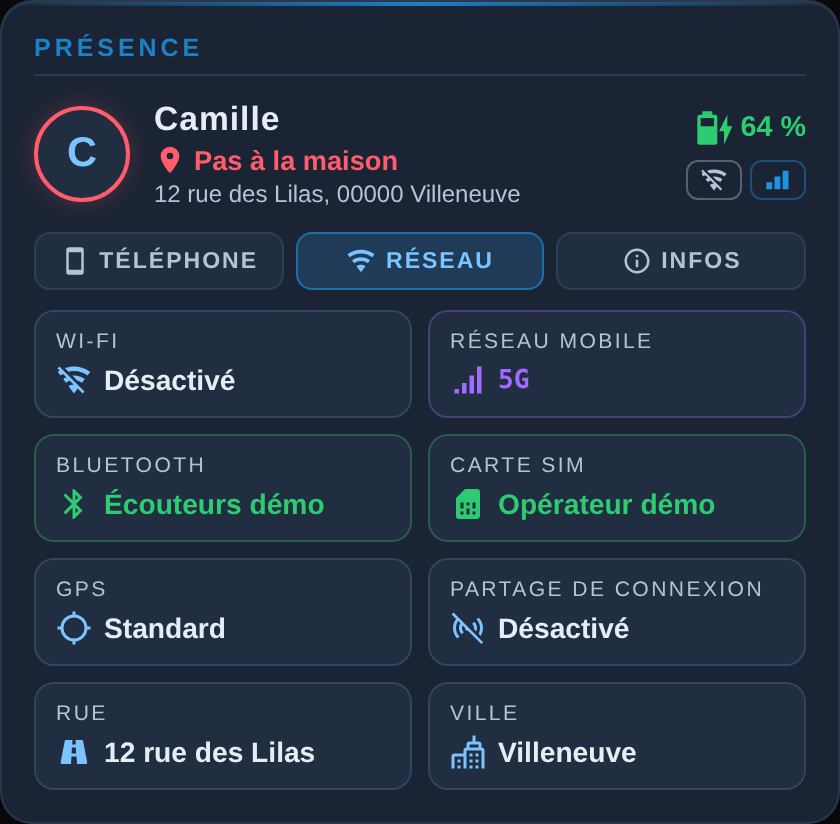
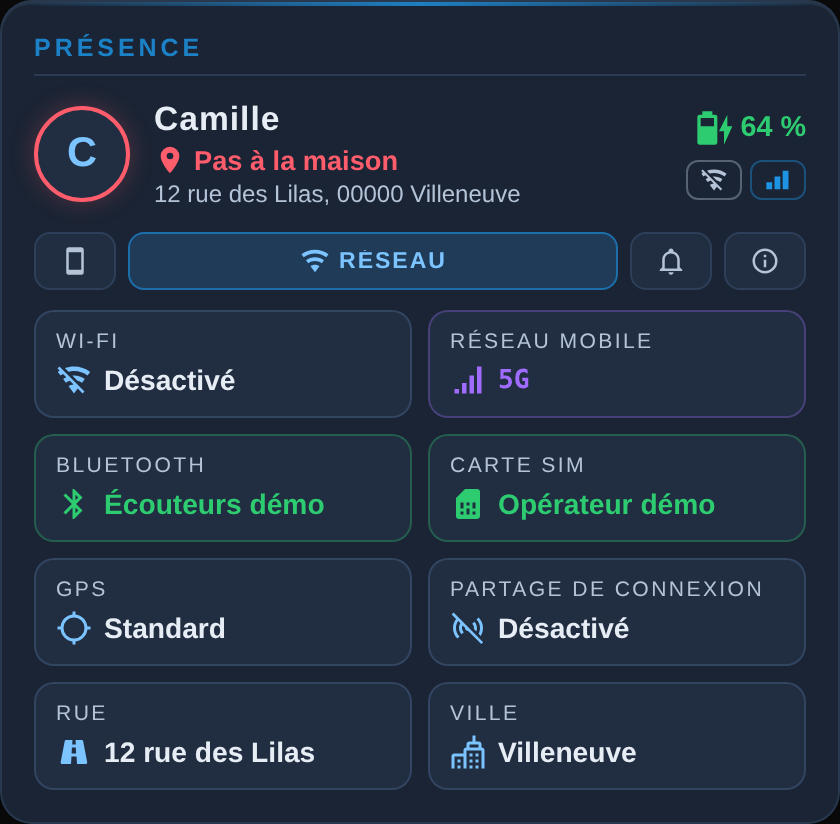
feat(web): notifications, dernier SMS, distance Proximité, rue et ville (1.0.0-beta.2)
Onglet Notifications et tuile Dernier SMS lus dans les attributs du capteur
de notifications actives ; capteur de distance de l'intégration Proximité
détecté ; rue et ville découpées dans l'adresse géocodée ; onglets compacts
sur une carte étroite.

Claude-Session: https://claude.ai/code/session_01CSixJnFf4qBMac7uTfNvnW

diff --git a/tracker-card.js b/tracker-card.js
@@ -12,7 +12,7 @@
  * Toutes les entités du téléphone peuvent être indiquées à la main sous « phone: ».
  */
 
-const CARD_VERSION = "1.0.0-beta.1";
+const CARD_VERSION = "1.0.0-beta.2";
 
 const define = (name, cls) => { if (!customElements.get(name)) customElements.define(name, cls); };
 const esc = (v) => String(v ?? "").replace(/[&<>"']/g, (c) => ({ "&": "&amp;", "<": "&lt;", ">": "&gt;", '"': "&quot;", "'": "&#39;" }[c]));
@@ -56,7 +56,7 @@ const CSS = THEME_CSS + `
 :host{display:block;font-family:var(--g-font);font-size:16px;}
 *{box-sizing:border-box;}
 ha-card{
-  display:block;position:relative;overflow:hidden;background:var(--g-bg);color:var(--g-text);
+  display:block;position:relative;container-type:inline-size;overflow:hidden;background:var(--g-bg);color:var(--g-text);
   border-radius:16px;border:1px solid color-mix(in srgb,var(--g-edge) 22%,transparent);
   box-shadow:inset 0 1px 0 rgba(255,255,255,.06),0 8px 28px rgba(0,0,0,.45);padding:16px;
 }
@@ -89,7 +89,9 @@ ha-card::before{content:'';position:absolute;top:0;left:0;right:0;height:2px;
 .tab{flex:1;min-width:90px;display:flex;align-items:center;justify-content:center;gap:5px;padding:6px 8px;border-radius:8px;cursor:pointer;user-select:none;
   font-size:.72rem;font-weight:700;letter-spacing:1px;text-transform:uppercase;color:var(--g-muted);
   background:var(--g-panel);border:1px solid color-mix(in srgb,var(--g-edge) 22%,transparent);}
-.tab ha-icon{--mdc-icon-size:15px;}
+.tab ha-icon{--mdc-icon-size:15px;flex:none;}
+.tab span{white-space:nowrap;overflow:hidden;text-overflow:ellipsis;}
+@container (max-width:480px){.tabs.n4 .tab{min-width:0;flex:0 0 auto;padding:6px 12px}.tabs.n4 .tab.on{flex:1}.tabs.n4 .tab:not(.on) span{display:none}}
 .tab.on{color:var(--g-acc2);border-color:color-mix(in srgb,var(--g-acc) 60%,transparent);background:color-mix(in srgb,var(--g-acc) 14%,var(--g-panel));}
 .panel{display:none;}
 .panel.on{display:block;}
@@ -103,7 +105,7 @@ ha-card::before{content:'';position:absolute;top:0;left:0;right:0;height:2px;
 .grid{display:grid;grid-template-columns:repeat(auto-fill,minmax(130px,1fr));gap:8px;}
 .tile{padding:9px 10px;border-radius:10px;background:var(--g-panel);min-width:0;
   border:1px solid color-mix(in srgb,var(--c,var(--g-edge)) 30%,transparent);}
-.tile[data-entity]{cursor:pointer;}
+.tile[data-entity],.tile[data-goto]{cursor:pointer;}
 .tile[data-entity]:hover{border-color:color-mix(in srgb,var(--c,var(--g-acc)) 70%,transparent);}
 .tile.wide{grid-column:1/-1;}
 .lbl{font-size:.66rem;letter-spacing:1.2px;text-transform:uppercase;color:var(--g-muted);margin-bottom:4px;}
@@ -125,6 +127,16 @@ ha-card::before{content:'';position:absolute;top:0;left:0;right:0;height:2px;
   background:color-mix(in srgb,var(--err) 10%,transparent);border:1px solid color-mix(in srgb,var(--err) 40%,transparent);font-family:inherit;}
 .find:hover,.find.busy{background:color-mix(in srgb,var(--err) 22%,transparent);}
 .find ha-icon{--mdc-icon-size:18px;}
+.notifs{display:flex;flex-direction:column;gap:6px;}
+.nt{display:flex;gap:10px;padding:8px 10px;border-radius:10px;background:var(--g-panel);border:1px solid color-mix(in srgb,var(--g-edge) 22%,transparent);min-width:0;}
+.nt > ha-icon{--mdc-icon-size:20px;color:var(--g-acc2);flex:none;margin-top:2px;}
+.nt .b{min-width:0;flex:1;}
+.nt .h{display:flex;gap:6px;align-items:baseline;font-size:.68rem;letter-spacing:1px;text-transform:uppercase;color:var(--g-muted);}
+.nt .h span:last-child{margin-left:auto;text-transform:none;letter-spacing:0;white-space:nowrap;}
+.nt .t{font-size:.88rem;font-weight:700;color:var(--g-text);overflow:hidden;text-overflow:ellipsis;white-space:nowrap;}
+.nt .m{font-size:.82rem;color:var(--g-muted);overflow:hidden;display:-webkit-box;-webkit-line-clamp:2;-webkit-box-orient:vertical;overflow-wrap:anywhere;}
+.sms .val{white-space:normal;display:-webkit-box;-webkit-line-clamp:2;-webkit-box-orient:vertical;}
+.sms .from{font-size:.72rem;color:var(--g-muted);margin-top:2px;}
 .empty{text-align:center;padding:14px 8px;font-size:.85rem;color:var(--g-muted);}
 @media (max-width:420px){ha-card{padding:13px}.tab{min-width:70px}}
 `;
@@ -176,6 +188,42 @@ const PHONE_GROUPS = [
   ["Système", [["public_ip", "IP publique", "sensor"], ["last_reboot", "Dernier redémarrage", "sensor"]]],
 ];
 
+/* Notifications Android : attributs « <application>_<id>_post_time », « android.title_<application>_<id> »… */
+const APPS = {
+  "com.whatsapp": ["WhatsApp", "mdi:whatsapp"], "com.whatsapp.w4b": ["WhatsApp Business", "mdi:whatsapp"],
+  "com.google.android.apps.messaging": ["Messages", "mdi:message-text"], "com.samsung.android.messaging": ["Messages", "mdi:message-text"], "com.android.mms": ["Messages", "mdi:message-text"],
+  "com.google.android.gm": ["Gmail", "mdi:gmail"], "org.telegram.messenger": ["Telegram", "mdi:send"], "org.thoughtcrime.securesms": ["Signal", "mdi:message-lock"],
+  "com.facebook.orca": ["Messenger", "mdi:facebook-messenger"], "com.facebook.katana": ["Facebook", "mdi:facebook"], "com.instagram.android": ["Instagram", "mdi:instagram"],
+  "com.snapchat.android": ["Snapchat", "mdi:snapchat"], "com.discord": ["Discord", "mdi:message-processing"], "com.google.android.youtube": ["YouTube", "mdi:youtube"],
+  "com.spotify.music": ["Spotify", "mdi:spotify"], "com.google.android.dialer": ["Téléphone", "mdi:phone"], "com.samsung.android.dialer": ["Téléphone", "mdi:phone"],
+  "com.google.android.calendar": ["Agenda", "mdi:calendar"], "com.android.vending": ["Play Store", "mdi:google-play"], "io.homeassistant.companion.android": ["Home Assistant", "mdi:home-assistant"],
+  "com.android.systemui": ["Système", "mdi:android"], "com.google.android.deskclock": ["Horloge", "mdi:alarm"], "com.sec.android.app.clockpackage": ["Horloge", "mdi:alarm"],
+};
+const SMS_APPS = ["com.google.android.apps.messaging", "com.samsung.android.messaging", "com.android.mms"];
+const appInfo = (pkg) => APPS[pkg] || [(pkg.split(".").pop() || pkg).replace(/^./, (c) => c.toUpperCase()), "mdi:bell-outline"];
+const readNotifs = (st) => {
+  const a = st?.attributes || {}, out = [];
+  for (const k of Object.keys(a)) {
+    if (!k.endsWith("_post_time")) continue;
+    const pre = k.slice(0, -10);
+    const title = a[`android.title_${pre}`] || a[`android.title.big_${pre}`] || "";
+    const text = a[`android.text_${pre}`] || a[`android.bigText_${pre}`] || a[`android.big_text_${pre}`] || a[`android.title.big_${pre}`] || "";
+    const pkg = pre.replace(/_+$/, "").split("_")[0];
+    if (!ok(title) && !ok(text)) continue;
+    out.push({ pkg, title: ok(title) ? String(title).trim() : "", text: ok(text) && text !== title ? String(text).trim() : "", t: parseInt(a[k], 10) || 0 });
+  }
+  return out.sort((x, y) => y.t - x.t);
+};
+const ago = (ms) => {
+  if (!ms) return "";
+  const m = Math.round((Date.now() - ms) / 60000);
+  if (m < 1) return "à l'instant";
+  if (m < 60) return `il y a ${m} min`;
+  if (m < 24 * 60) return `il y a ${Math.floor(m / 60)} h`;
+  return new Date(ms).toLocaleDateString("fr-FR", { day: "numeric", month: "short" });
+};
+const slug = (v) => String(v || "").normalize("NFD").replace(/[̀-ͯ]/g, "").toLowerCase().replace(/[^a-z0-9]+/g, "_").replace(/^_|_$/g, "");
+
 /* ---------------------------------------------------------------- démo */
 const DEMO = (() => {
   const t = (h) => new Date(Date.now() + h * 3600e3).toISOString();
@@ -185,6 +233,11 @@ const DEMO = (() => {
     hotspot: "off", bt_state: "on", bt_conn: "Écouteurs démo", sim: "Opérateur démo", activity: "walking", high_acc: "off",
     ringer: "vibrate", notif_count: "3", next_alarm: t(13.5), geocoded: "12 rue des Lilas, Villeneuve", rue: "12 rue des Lilas", ville: "Villeneuve",
     proximity: "2.4", public_ip: "203.0.113.42", last_reboot: t(-80), heart_rate: "78",
+    notifs: [
+      { pkg: "com.google.android.apps.messaging", title: "Dominique", text: "Je passe prendre le pain en rentrant, il te faut autre chose ?", t: Date.now() - 4 * 60e3 },
+      { pkg: "com.whatsapp", title: "Famille démo", text: "Photo", t: Date.now() - 38 * 60e3 },
+      { pkg: "io.homeassistant.companion.android", title: "Lave-linge", text: "Le cycle est terminé.", t: Date.now() - 2.5 * 3600e3 },
+    ],
   };
 })();
 
@@ -256,7 +309,7 @@ class TrackerCard extends HTMLElement {
     applyTheme(this, this._config.theme, h);
     const ents = this._entities();
     const fp = this._config.demo ? "demo" : [this._config.person, this._config.heart_rate, ...Object.values(ents)]
-      .filter(Boolean).map((e) => { const s = h.states[e]; return s ? s.state + "|" + (s.attributes?.latitude ?? "") + (s.attributes?.entity_picture ?? "") : "x"; }).join(";");
+      .filter(Boolean).map((e) => { const s = h.states[e]; return s ? s.state + "|" + (s.attributes?.latitude ?? "") + (s.attributes?.entity_picture ?? "") + (e === ents.notif_count ? JSON.stringify(s.attributes) : "") : "x"; }).join(";");
     if (fp === this._fp) return;
     this._fp = fp;
     this._render(!this.shadowRoot.querySelector("ha-card"));
@@ -285,7 +338,22 @@ class TrackerCard extends HTMLElement {
         if (hit) { out[key] = hit; break; }
       }
     }
-    for (const k of ["proximity", "rue", "ville"]) if (cfg.phone[k]) out[k] = cfg.phone[k];
+    // capteurs nommés d'après la personne ou le téléphone : sensor.<prénom>_rue, _ville, _proximity_km
+    const names = [...new Set([cfg.person?.split(".")[1], slug(person?.attributes?.friendly_name), tracker?.split(".")[1]].filter((x) => x && x.length > 1))];
+    const st = h?.states || {};
+    const own = (sfx) => names.map((n) => `sensor.${n}_${sfx}`).find((e) => st[e]);
+    for (const [k, sfx] of [["rue", ["rue"]], ["ville", ["ville"]], ["proximity", ["proximity_km", "proximity", "distance"]]]) {
+      if (cfg.phone[k]) { out[k] = cfg.phone[k]; continue; }
+      const hit = sfx.map(own).find(Boolean);
+      if (hit) out[k] = hit;
+    }
+    // intégration Proximité : capteur de distance à la zone qui porte le nom de la personne ou du téléphone
+    if (!out.proximity) {
+      const cand = Object.keys(reg).filter((e) => reg[e].platform === "proximity" && e.startsWith("sensor.") && !/nearest|plus_proche|direction/.test(e)
+        && ["m", "km", "mi", "ft"].includes(st[e]?.attributes?.unit_of_measurement) && names.some((n) => e.includes(n)));
+      const hit = cand.find((e) => /dist/.test(e)) || cand[0];
+      if (hit) out.proximity = hit;
+    }
     this._ents = out; this._entsFor = h?.states;
     return out;
   }
@@ -312,14 +380,17 @@ class TrackerCard extends HTMLElement {
     // adresse : capteurs rue/ville, sinon attributs de l'adresse géocodée
     const geoSt = this._st("geocoded");
     const geo = this._v("geocoded");
-    const rue = this._v("rue") || (demo ? null : [attr(geoSt, "Sub Thoroughfare"), attr(geoSt, "Thoroughfare")].filter(Boolean).join(" ") || null);
-    const ville = this._v("ville") || (demo ? null : attr(geoSt, "Locality"));
+    const parts = demo || !geo ? [] : String(geo).split(",").map((x) => x.trim()).filter(Boolean);
+    const rue = this._v("rue") || (demo ? null : [attr(geoSt, "Sub Thoroughfare"), attr(geoSt, "Thoroughfare")].filter(Boolean).join(" ") || (parts.length > 1 ? parts[0] : null));
+    const ville = this._v("ville") || (demo ? null : attr(geoSt, "Locality") || (parts.length > 1 ? parts[1].replace(/^\d{4,6}\s+/, "") : null));
     const where = geo || [rue, ville].filter(Boolean).join(", ");
 
     // distance : capteur proximity, sinon calculée entre le téléphone et la maison
     let km = parseFloat(this._v("proximity"));
     const proxSt = this._st("proximity");
-    if (Number.isFinite(km) && proxSt?.attributes?.unit_of_measurement === "m") km /= 1000;
+    const unit = proxSt?.attributes?.unit_of_measurement;
+    if (Number.isFinite(km)) km = unit === "m" ? km / 1000 : unit === "mi" ? km * 1.609344 : unit === "ft" ? km * 0.0003048 : km;
+    if (Number.isFinite(km) && km < 0.05) km = 0;
     if (!Number.isFinite(km) && !demo && !home) {
       const src = this._st("tracker") || person;
       const la = parseFloat(src?.attributes?.latitude), lo = parseFloat(src?.attributes?.longitude);
@@ -350,7 +421,7 @@ class TrackerCard extends HTMLElement {
     const has = (k) => !!pick(k);
     const ent = (k) => { const x = pick(k); return demo || !x ? "" : ` data-entity="${esc(E[x])}"`; };
     const tile = (k, label, icon, val, color, extra = "") => has(k)
-      ? `<div class="tile${extra}"${ent(k)} style="${color ? `--c:var(${color})` : ""}"><div class="lbl">${esc(label)}</div><div class="row"><ha-icon icon="${esc(icon)}"></ha-icon><span class="val${extra.includes("mono") ? " mono" : ""}">${esc(val ?? "—")}</span></div></div>`
+      ? `<div class="tile${extra.replace(" goto", "")}"${extra.includes("goto") ? ` data-goto="notifs"` : ent(k)} style="${color ? `--c:var(${color})` : ""}"><div class="lbl">${esc(label)}</div><div class="row"><ha-icon icon="${esc(icon)}"></ha-icon><span class="val${extra.includes("mono") ? " mono" : ""}">${esc(val ?? "—")}</span></div></div>`
       : "";
 
     // onglet Téléphone
@@ -361,6 +432,8 @@ class TrackerCard extends HTMLElement {
     const ring = String(this._v("ringer") || "").toLowerCase();
     const [rIcon, rLbl, rCol] = RINGER[ring] || ["mdi:bell-outline", ring || "—", null];
     const nc = parseInt(this._v("notif_count"), 10);
+    const notifs = cfg.notifications === false ? [] : demo ? DEMO.notifs : readNotifs(this._st("notif_count"));
+    const sms = notifs.find((n) => SMS_APPS.includes(n.pkg));
     const ncCol = !Number.isFinite(nc) ? null : nc > 10 ? "--err" : nc > 0 ? "--warn" : "--ok";
     const alarmIso = this._v("next_alarm");
     const alarmMs = alarmIso ? new Date(alarmIso) - Date.now() : NaN;
@@ -381,7 +454,8 @@ class TrackerCard extends HTMLElement {
         </div></div>` : ""}
       <div class="grid">
         ${tile("ringer", "Sonnerie", rIcon, rLbl, rCol)}
-        ${tile("notif_count", "Notifications", "mdi:bell-badge-outline", Number.isFinite(nc) ? String(nc) : "—", ncCol, " mono")}
+        ${tile("notif_count", "Notifications", "mdi:bell-badge-outline", Number.isFinite(nc) ? String(nc) : "—", ncCol, notifs.length ? " mono goto" : " mono")}
+        ${sms ? `<div class="tile wide sms" data-goto="notifs" style="--c:var(--info)"><div class="lbl">Dernier SMS · ${esc(ago(sms.t))}</div><div class="row"><ha-icon icon="mdi:message-text"></ha-icon><div style="min-width:0"><div class="val">${esc(sms.text || sms.title)}</div><div class="from">${esc(sms.title)}</div></div></div></div>` : ""}
         ${tile("next_alarm", "Prochaine alarme", "mdi:alarm", alarm, alarmMs > 0 && alarmMs < 3600e3 ? "--err" : alarm ? "--warn" : null, " wide")}
       </div>
       ${cfg.find_phone_script ? `<button class="find" id="find"><ha-icon icon="mdi:cellphone-sound"></ha-icon>Faire sonner le téléphone</button>` : ""}`;
@@ -410,8 +484,12 @@ class TrackerCard extends HTMLElement {
       ${tile("geocoded", "Adresse", "mdi:map-marker-outline", geo, null, " wide")}
     </div>`;
 
-    const panels = [["mdi:cellphone", "Téléphone", p0], ["mdi:wifi", "Réseau", p1], ["mdi:information-outline", "Infos", p2]]
-      .filter(([, , p]) => /class="(tile|bat|act|find)/.test(p));
+    const p3 = notifs.length ? `<div class="notifs">${notifs.slice(0, cfg.notifications_max || 20).map((n) => { const [app, icon] = appInfo(n.pkg); return `
+      <div class="nt"><ha-icon icon="${esc(icon)}"></ha-icon><div class="b"><div class="h"><span>${esc(app)}</span><span>${esc(ago(n.t))}</span></div>
+        ${n.title ? `<div class="t">${esc(n.title)}</div>` : ""}${n.text ? `<div class="m">${esc(n.text)}</div>` : ""}</div></div>`; }).join("")}</div>` : "";
+    const panels = [["mdi:cellphone", "Téléphone", p0], ["mdi:wifi", "Réseau", p1], ["mdi:bell-outline", "Notifications", p3, "notifs"], ["mdi:information-outline", "Infos", p2]]
+      .filter(([, , p]) => /class="(tile|bat|act|find|notifs)/.test(p));
+    this._panelIds = panels.map((x) => x[3] || "");
     if (this._tab >= panels.length) this._tab = 0;
 
     const netChip = net === "wifi" ? ["mdi:wifi", "--ok"] : net === "cellular" ? ["mdi:signal-cellular-3", "--info"] : net.includes("vpn") ? ["mdi:vpn", "--violet"] : ok(net) ? ["mdi:network-strength-off", null] : null;
@@ -437,7 +515,7 @@ class TrackerCard extends HTMLElement {
           ${chips.length ? `<div class="chips">${chips.map(([i, c, t]) => `<span class="chip" title="${esc(t)}" style="${c ? `--c:var(${c})` : ""}"><ha-icon icon="${i}"></ha-icon></span>`).join("")}</div>` : ""}
         </div>
       </div>
-      ${panels.length > 1 ? `<div class="tabs">${panels.map(([i, l], n) => `<div class="tab${n === this._tab ? " on" : ""}" data-tab="${n}"><ha-icon icon="${i}"></ha-icon>${l}</div>`).join("")}</div>` : ""}
+      ${panels.length > 1 ? `<div class="tabs${panels.length > 3 ? " n4" : ""}">${panels.map(([i, l], n) => `<div class="tab${n === this._tab ? " on" : ""}" data-tab="${n}" title="${l}"><ha-icon icon="${i}"></ha-icon><span>${l}</span></div>`).join("")}</div>` : ""}
       ${panels.map(([, , p], n) => `<div class="panel${n === this._tab ? " on" : ""}">${p}</div>`).join("")}
       ${!panels.length && !demo ? `<div class="empty">${cfg.person ? "Aucun capteur de téléphone trouvé pour cette personne : indiquez-les dans l'éditeur (section Téléphone)." : "Choisissez une personne dans l'éditeur de la carte."}</div>` : ""}`;
 
@@ -458,6 +536,8 @@ class TrackerCard extends HTMLElement {
       return;
     }
     if (ev.target.closest("#find")) return this._find(ev.target.closest("#find"));
+    const go = ev.target.closest("[data-goto]");
+    if (go) { const n = (this._panelIds || []).indexOf(go.dataset.goto); const t = n >= 0 && this._card.querySelector(`.tab[data-tab="${n}"]`); if (t) t.click(); return; }
     const el = ev.target.closest("[data-entity]");
     if (el) this.dispatchEvent(new CustomEvent("hass-more-info", { detail: { entityId: el.dataset.entity }, bubbles: true, composed: true }));
   }

diff --git a/docs/demo.html b/docs/demo.html
@@ -62,12 +62,25 @@ add("sensor.pixel_camille_data_network_type_sim_1", "5G", {}, d1);
 add("sensor.pixel_camille_detected_activity", "walking", {}, d1);
 add("binary_sensor.pixel_camille_high_accuracy_mode", "off", {}, d1);
 add("sensor.pixel_camille_ringer_mode", "vibrate", {}, d1);
-add("sensor.pixel_camille_active_notification_count", 3, {}, d1);
+add("sensor.pixel_camille_active_notification_count", 3, {
+  "com.google.android.apps.messaging_0|12|null|10100_post_time": now - 4 * 60e3,
+  "android.title_com.google.android.apps.messaging_0|12|null|10100": "Dominique",
+  "android.text_com.google.android.apps.messaging_0|12|null|10100": "Je passe prendre le pain en rentrant, il te faut autre chose ?",
+  "com.whatsapp_0|3|null|10200_post_time": now - 38 * 60e3,
+  "android.title_com.whatsapp_0|3|null|10200": "Famille démo",
+  "android.text_com.whatsapp_0|3|null|10200": "Photo",
+  "io.homeassistant.companion.android_0|7|null|10300_post_time": now - 2.5 * H,
+  "android.title_io.homeassistant.companion.android_0|7|null|10300": "Lave-linge",
+  "android.text_io.homeassistant.companion.android_0|7|null|10300": "Le cycle est terminé.",
+}, d1);
 add("sensor.pixel_camille_next_alarm", new Date(now + 13.5 * H).toISOString(), {}, d1);
 add("sensor.pixel_camille_geocoded_location", "12 rue des Lilas, 00000 Villeneuve", { Thoroughfare: "rue des Lilas", "Sub Thoroughfare": "12", Locality: "Villeneuve" }, d1);
 add("sensor.pixel_camille_public_ip_address", "203.0.113.42", {}, d1);
 add("sensor.pixel_camille_last_reboot", new Date(now - 80 * H).toISOString(), {}, d1);
 add("sensor.montre_camille_heart_rate", 78);
+// intégration Proximité (distance en mètres)
+add("sensor.maison_distance_camille", 3180, { unit_of_measurement: "m", device_class: "distance" });
+entities["sensor.maison_distance_camille"].platform = "proximity";
 // Dominique : iPhone, à la maison, sur le Wi-Fi
 add("person.dominique", "home", { friendly_name: "Dominique", device_trackers: ["device_tracker.iphone_dominique"] });
 const d2 = "dev_dominique";
@@ -77,7 +90,7 @@ add("sensor.iphone_dominique_battery_state", "Not Charging", {}, d2);
 add("sensor.iphone_dominique_ssid", "Wi-Fi maison", {}, d2);
 add("sensor.iphone_dominique_connection_type", "Wi-Fi", {}, d2);
 add("sensor.iphone_dominique_activity", "Stationary", {}, d2);
-add("sensor.iphone_dominique_geocoded_location", "Villeneuve", { Locality: "Villeneuve" }, d2);
+add("sensor.iphone_dominique_geocoded_location", "3 place du Marché, 00000 Villeneuve, France", {}, d2);
 
 const params = new URLSearchParams(location.search), theme = params.get("theme") || "v2";
 document.getElementById("theme").value = theme;

diff --git a/README.md b/README.md
@@ -29,13 +29,17 @@
 
 # Carte Présence et téléphone
 
-Une carte Lovelace pour Home Assistant qui montre **où est une personne** et **l'état de son téléphone** : batterie et charge, activité, distance de la maison, sonnerie, notifications, prochaine alarme, Wi-Fi, réseau mobile, Bluetooth, carte SIM, GPS, adresse, IP publique. Tout est **en français**.
+Une carte Lovelace pour Home Assistant qui montre **où est une personne** et **l'état de son téléphone** : batterie et charge, activité, distance de la maison, sonnerie, notifications (avec leur contenu et le dernier SMS), prochaine alarme, Wi-Fi, réseau mobile, Bluetooth, carte SIM, GPS, adresse, IP publique. Tout est **en français**.
 
 Il suffit de choisir la personne : la carte **trouve toute seule les capteurs de son téléphone** (application compagnon Home Assistant, Android ou iPhone). Aucun YAML à écrire, aucune intégration en plus.
 
-| Téléphone | Réseau | Infos | Clair |
-|---|---|---|---|
-| ![Onglet Téléphone](images/telephone.png) | ![Onglet Réseau](images/reseau.png) | ![Onglet Infos](images/infos.png) | ![Couleurs claires](images/clair.png) |
+| Téléphone | Réseau | Notifications |
+|---|---|---|
+| ![Onglet Téléphone](images/telephone.png) | ![Onglet Réseau](images/reseau.png) | ![Onglet Notifications](images/notifications.png) |
+
+| Infos | Clair |
+|---|---|
+| ![Onglet Infos](images/infos.png) | ![Couleurs claires](images/clair.png) |
 
 *Captures réalisées en mode démo : personne, adresse et téléphone fictifs.*
 
@@ -73,6 +77,8 @@ C'est tout : le suivi de position de la personne mène à son téléphone, et la
 | `theme` | `v2` bleu nuit, `auto` clair ou sombre selon Home Assistant, `ha` couleurs du thème Home Assistant | `v2` |
 | `find_phone_script` | Script ou bouton qui fait sonner le téléphone : affiche le bouton **Faire sonner le téléphone** | — |
 | `heart_rate` | Capteur de fréquence cardiaque (montre), affiché à côté de l'activité | — |
+| `notifications` | `false` : ne pas afficher le contenu des notifications (onglet Notifications et dernier SMS) | `true` |
+| `notifications_max` | Nombre de notifications listées au plus | `20` |
 | `demo` | `true` : personne et téléphone fictifs, pour partager une capture sans rien dévoiler | `false` |
 | `phone` | Entités du téléphone à utiliser à la place de celles trouvées automatiquement (voir ci-dessous) | — |
 
@@ -100,10 +106,14 @@ Activez-les dans l'application compagnon (**Paramètres → Application compagno
 | `public_ip` | `…_public_ip_address` | IP publique |
 | `last_reboot` | `…_last_reboot` | Dernier redémarrage |
 | `tracker` | le `device_tracker` du téléphone | Distance calculée depuis la maison |
-| `proximity` | un capteur de distance (intégration Proximité, en km ou en m) | Distance |
-| `rue` / `ville` | vos propres capteurs | Rue et ville |
+| `proximity` | capteur de distance de l'intégration **Proximité** (m, km ou miles), ou `sensor.<prénom>_proximity_km` | Distance |
+| `rue` / `ville` | `sensor.<prénom>_rue` / `sensor.<prénom>_ville`, s'ils existent | Rue et ville |
 
-Sans capteur `proximity`, la distance est calculée entre la position du téléphone et la zone Maison. Sans `rue` ni `ville`, elles sont lues dans l'adresse géocodée.
+Ce que la carte calcule elle-même, sans capteur modèle à créer :
+
+- **Distance** : elle prend le capteur de distance de l'intégration **Proximité** qui porte le nom de la personne ou du téléphone. À défaut, elle calcule la distance entre la position du téléphone et la zone Maison. Moins de 50 m compte comme à la maison (0 m).
+- **Rue et ville** : lues dans les attributs de l'adresse géocodée, sinon découpées dans son texte (« rue, code postal ville »).
+- **Notifications** (Android) : le contenu de chaque notification (application, titre, message, heure) est lu dans les attributs du capteur `…_active_notification_count`. L'onglet **Notifications** les liste de la plus récente à la plus ancienne, et la tuile **Dernier SMS** montre le dernier message reçu dans l'application Messages, avec son expéditeur.
 
 Pour forcer une entité, indiquez-la sous `phone:` ; les autres restent détectées :
 
@@ -118,13 +128,14 @@ phone:
 
 ### Interactions
 
-- **Onglets** Téléphone, Réseau, Infos.
-- **Clic sur une tuile**, la batterie ou la photo : ouvre la fenêtre de détails de Home Assistant (historique, attributs). Sur la tuile Notifications, on y retrouve le détail des notifications reçues.
+- **Onglets** Téléphone, Réseau, Notifications, Infos (sur une carte étroite, les onglets inactifs n'affichent que leur icône).
+- **Clic sur une tuile**, la batterie ou la photo : ouvre la fenêtre de détails de Home Assistant (historique, attributs).
+- **Clic sur la tuile Notifications ou Dernier SMS** : ouvre l'onglet Notifications.
 - **Faire sonner le téléphone** : lance le script (ou appuie sur le bouton) indiqué dans `find_phone_script`.
 
 ## Vie privée
 
-La carte affiche la position et l'adresse de la personne suivie : réservez-la aux tableaux de bord des personnes concernées. Elle ne contacte aucun service extérieur, tout est lu dans Home Assistant. Pour une capture à partager, activez le **mode démo** (`demo: true`).
+La carte affiche la position, l'adresse et le contenu des notifications de la personne suivie : réservez-la aux tableaux de bord des personnes concernées, ou masquez les notifications avec `notifications: false`. Elle ne contacte aucun service extérieur, tout est lu dans Home Assistant. Pour une capture à partager, activez le **mode démo** (`demo: true`).
 
 ## Démo
 

diff --git a/.github/release-notes/v1.0.0-beta.2.md b/.github/release-notes/v1.0.0-beta.2.md
@@ -1,0 +1,13 @@
+## Nouveautés
+
+- **Onglet Notifications** (Android) : chaque notification du téléphone avec son application, son titre, son message et son heure, de la plus récente à la plus ancienne. La carte les lit dans le capteur « Notifications actives » de l'application compagnon : aucun capteur modèle à créer.
+- **Tuile Dernier SMS** : le dernier message reçu dans l'application Messages, avec son expéditeur. Un clic sur cette tuile ou sur la tuile Notifications ouvre l'onglet Notifications.
+- **Distance de l'intégration Proximité** trouvée automatiquement (capteur qui porte le nom de la personne ou du téléphone), en mètres, kilomètres ou miles ; moins de 50 m compte comme à la maison.
+- **Rue et ville** découpées dans le texte de l'adresse géocodée quand ses attributs manquent ; capteurs `sensor.<prénom>_rue`, `sensor.<prénom>_ville` et `sensor.<prénom>_proximity_km` repris automatiquement s'ils existent.
+- Nouvelles options `notifications: false` (masquer le contenu des notifications) et `notifications_max` (20 par défaut).
+
+## Corrections
+
+- Sur une carte étroite, les quatre onglets tiennent sur une ligne : les onglets inactifs n'affichent que leur icône.
+
+Retours et bugs : [Issues GitHub](https://github.com/Marlboro62/tracker/issues).
